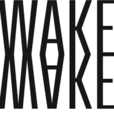
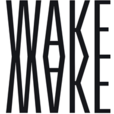
design : 이미지 수정 및 푸터 간격 재조정

diff --git a/layout/header.html b/layout/header.html
@@ -4,23 +4,33 @@
     <meta charset="UTF-8" />
     <meta name="viewport" content="width=device-width, initial-scale=1.0" />
     <title>MAKEWAKE</title>
-    <link rel="stylesheet" href="../css/layout.css" />
+    <link rel="stylesheet" href="/css/layout.css" />
   </head>
   <body>
     <header id="header">
       <div class="header_left">
-        <a href="../html/main.html"
-          ><img id="goToMain" src="../img/header_logo.svg" alt="logo"
+        <a href="/html/main.html"
+          ><img id="goToMain" src="/img/header_logo.svg" alt="logo"
         /></a>
       </div>
       <ul class="header_right">
-        <li><a href="../html/shop.html">SHOP</a></li>
-        <li><a href="../html/brandStroy.html">BRAND STORY</a></li>
-        <li><a href="">CART(0)</a></li>
-        <li><a href="../html/login.html">LOGIN</a></li>
+        <li class="menu_item">
+          <a href="/html/shop.html">SHOP</a>
+          <ul class="submenu">
+            <li><a href="">New 1999 Vintage</a></li>
+            <li><a href="">Face Makeup</a></li>
+            <li><a href="">Eye Makeup</a></li>
+            <li><a href="">Lip Makeup</a></li>
+            <li><a href="">Nail</a></li>
+            <li><a href="">Tool</a></li>
+          </ul>
+        </li>
+        <li><a href="/html/brandStory.html">BRAND STORY</a></li>
+        <li><a href="/html/cart.html">CART(0)</a></li>
+        <li><a href="/html/login.html">LOGIN</a></li>
       </ul>
     </header>
 
-    <script src="../js/layoutContent.js"></script>
+    <script src="/js/layoutContent.js"></script>
   </body>
 </html>

diff --git a/css/shop.scss b/css/shop.scss
@@ -6,6 +6,8 @@ body {
     padding: 0;
     box-sizing: border-box;
     font-family: "Roboto", sans-serif;
+    text-rendering: optimizeLegibility;
+    -webkit-font-smoothing: antialiased;
 }
 
 ul,
@@ -65,41 +67,41 @@ li {
 
 
     // main_product
-    .main_product{
+    .main_product {
         display: flex;
         flex-direction: column;
         margin-top: 57px;
         margin-bottom: 278px;
 
         .product_top,
-        .product_bottom{
+        .product_bottom {
             display: flex;
             gap: 20px;
             padding: 40px 45px;
 
 
-            .product_container{
+            .product_container {
                 display: flex;
                 flex-direction: column;
                 gap: 20px;
                 cursor: pointer;
 
-                .imgBox{
-                    img{
+                .imgBox {
+                    img {
                         width: 100%;
                     }
                 }
 
-                .textBox{
+                .textBox {
                     display: flex;
                     flex-direction: column;
                     gap: 15px;
                     font-size: 18px;
 
-                    .price{
+                    .price {
                         font-weight: 600;
 
-                        .discount{
+                        .discount {
                             color: #FF0000;
                         }
                     }

diff --git a/layout/footer.html b/layout/footer.html
@@ -4,7 +4,7 @@
     <meta charset="UTF-8" />
     <meta name="viewport" content="width=device-width, initial-scale=1.0" />
     <title>footer</title>
-    <link rel="stylesheet" href="../css/layout.css" />
+    <link rel="stylesheet" href="/css/layout.css" />
   </head>
 
   <body>
@@ -17,17 +17,17 @@
           <li>Franchise and Partnership Inquiry</li>
         </ul>
         <ul class="top_right">
-          <li><img src="../img/youtube_icon.svg" alt="youtube_icon" /></li>
-          <li><img src="../img/instagram_icon.svg" alt="instagram_icon" /></li>
-          <li><img src="../img/facebook_icon.svg" alt="facebook_icon" /></li>
-          <li><img src="../img/line_icon.svg" alt="line_icon" /></li>
+          <li><img src="/img/youtube_icon.svg" alt="youtube_icon" /></li>
+          <li><img src="/img/instagram_icon.svg" alt="instagram_icon" /></li>
+          <li><img src="/img/facebook_icon.svg" alt="facebook_icon" /></li>
+          <li><img src="/img/line_icon.svg" alt="line_icon" /></li>
         </ul>
       </div>
 
       <div class="footer_bottom">
         <div class="bottom_left">
           <div class="logo">
-            <img src="../img/footer_logo.svg" alt="logo2">
+            <img src="/img/footer_logo.svg" alt="logo2">
           </div>
           <div class="text_container">
             <div class="textBox01">

diff --git a/css/layout.scss b/css/layout.scss
@@ -6,6 +6,8 @@ body {
   margin: 0px;
   font-family: "Roboto", sans-serif;
   box-sizing: border-box;
+  text-rendering: optimizeLegibility;
+  -webkit-font-smoothing: antialiased;
 }
 
 ul,
@@ -52,11 +54,44 @@ button {
     display: flex;
     gap: 30px;
     margin-right: 95px;
+    font-weight: 600;
 
-    li {
-      font-weight: 600;
+    .menu_item {
+      position: relative;
+
+      .submenu {
+        display: none;
+        position: absolute;
+        width: 150px;
+        top: 100%;
+        left: 0;
+        padding: 0;
+        margin: 0;
+        background-color: rgba(0, 0, 0, 0.289);
+        border: 1px solid #ccc;
+
+        li {
+          &:hover {
+            background-color: rgba(255, 255, 255, 0.444);
+          }
+
+          a {
+            display: block;
+            padding: 10px;
+            color: #fff;
+            font-weight: 400;
+            font-size: 14px;
+          }
+        }
+      }
+    }
+
+    .menu_item:hover .submenu {
+      display: block;
     }
   }
+
+
 }
 
 //footer
@@ -67,7 +102,7 @@ button {
   color: #2B2B2B;
   padding: 0 20px;
   overflow-x: hidden;
-  margin-right: 8px;
+  margin-right: 5px;
 
 
   .footer_top {

diff --git a/css/layout.css b/css/layout.css
@@ -4,6 +4,8 @@ body {
   margin: 0px;
   font-family: "Roboto", sans-serif;
   box-sizing: border-box;
+  text-rendering: optimizeLegibility;
+  -webkit-font-smoothing: antialiased;
 }
 
 ul,
@@ -46,9 +48,34 @@ button {
   display: flex;
   gap: 30px;
   margin-right: 95px;
-}
-#header .header_right li {
   font-weight: 600;
+}
+#header .header_right .menu_item {
+  position: relative;
+}
+#header .header_right .menu_item .submenu {
+  display: none;
+  position: absolute;
+  width: 150px;
+  top: 100%;
+  left: 0;
+  padding: 0;
+  margin: 0;
+  background-color: rgba(0, 0, 0, 0.289);
+  border: 1px solid #ccc;
+}
+#header .header_right .menu_item .submenu li:hover {
+  background-color: rgba(255, 255, 255, 0.444);
+}
+#header .header_right .menu_item .submenu li a {
+  display: block;
+  padding: 10px;
+  color: #fff;
+  font-weight: 400;
+  font-size: 14px;
+}
+#header .header_right .menu_item:hover .submenu {
+  display: block;
 }
 
 #footer {
@@ -58,7 +85,7 @@ button {
   color: #2B2B2B;
   padding: 0 20px;
   overflow-x: hidden;
-  margin-right: 8px;
+  margin-right: 5px;
 }
 #footer .footer_top {
   display: flex;

diff --git a/css/detailProduct.css b/css/detailProduct.css
@@ -1,1 +1,16 @@
-/*# sourceMappingURL=detailProduct.css.map */
+@import url("https://fonts.googleapis.com/css2?family=Roboto:ital,wght@0,100;0,300;0,400;0,500;0,700;0,900;1,100;1,300;1,400;1,500;1,700;1,900&display=swap");
+body {
+  padding: 0px;
+  margin: 0px;
+  font-family: "Roboto", sans-serif;
+  box-sizing: border-box;
+  text-rendering: optimizeLegibility;
+  -webkit-font-smoothing: antialiased;
+}
+
+ul,
+li {
+  margin: 0px;
+  padding: 0px;
+  list-style: none;
+}/*# sourceMappingURL=detailProduct.css.map */

diff --git a/css/brandStory.css b/css/brandStory.css
@@ -1,1 +1,16 @@
-/*# sourceMappingURL=brandStory.css.map */
+@import url("https://fonts.googleapis.com/css2?family=Roboto:ital,wght@0,100;0,300;0,400;0,500;0,700;0,900;1,100;1,300;1,400;1,500;1,700;1,900&display=swap");
+body {
+  padding: 0px;
+  margin: 0px;
+  font-family: "Roboto", sans-serif;
+  box-sizing: border-box;
+  text-rendering: optimizeLegibility;
+  -webkit-font-smoothing: antialiased;
+}
+
+ul,
+li {
+  margin: 0px;
+  padding: 0px;
+  list-style: none;
+}/*# sourceMappingURL=brandStory.css.map */

diff --git a/css/brandStory.scss b/css/brandStory.scss
@@ -1,0 +1,18 @@
+@import url('https://fonts.googleapis.com/css2?family=Roboto:ital,wght@0,100;0,300;0,400;0,500;0,700;0,900;1,100;1,300;1,400;1,500;1,700;1,900&display=swap');
+
+// reset
+body {
+  padding: 0px;
+  margin: 0px;
+  font-family: "Roboto", sans-serif;
+  box-sizing: border-box;
+  text-rendering: optimizeLegibility;
+  -webkit-font-smoothing: antialiased;
+}
+
+ul,
+li {
+  margin: 0px;
+  padding: 0px;
+  list-style: none;
+}

diff --git a/css/detailProduct.scss b/css/detailProduct.scss
@@ -1,0 +1,18 @@
+@import url('https://fonts.googleapis.com/css2?family=Roboto:ital,wght@0,100;0,300;0,400;0,500;0,700;0,900;1,100;1,300;1,400;1,500;1,700;1,900&display=swap');
+
+// reset
+body {
+  padding: 0px;
+  margin: 0px;
+  font-family: "Roboto", sans-serif;
+  box-sizing: border-box;
+  text-rendering: optimizeLegibility;
+  -webkit-font-smoothing: antialiased;
+}
+
+ul,
+li {
+  margin: 0px;
+  padding: 0px;
+  list-style: none;
+}

diff --git a/css/shop.css b/css/shop.css
@@ -4,6 +4,8 @@ body {
   padding: 0;
   box-sizing: border-box;
   font-family: "Roboto", sans-serif;
+  text-rendering: optimizeLegibility;
+  -webkit-font-smoothing: antialiased;
 }
 
 ul,
